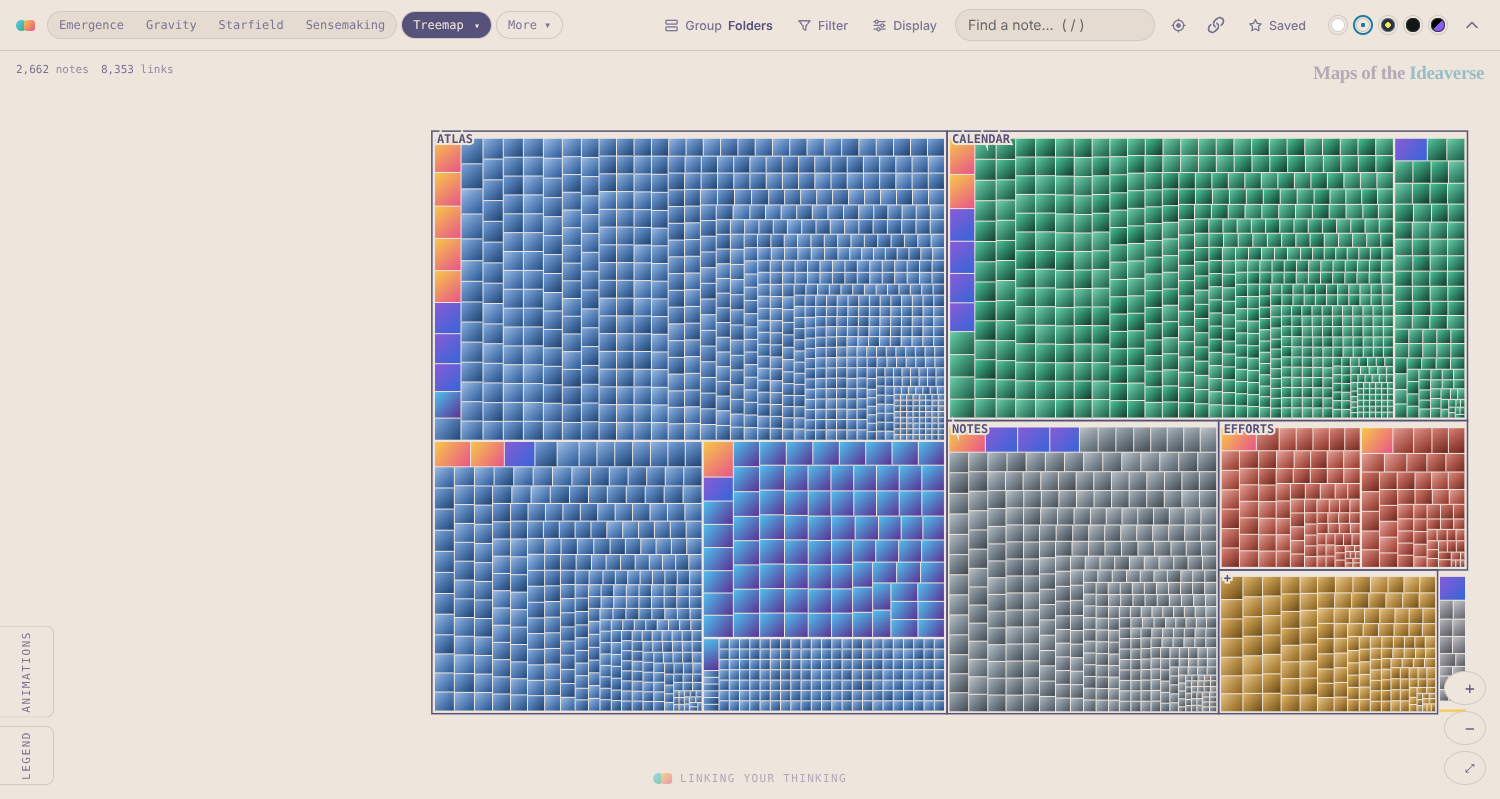
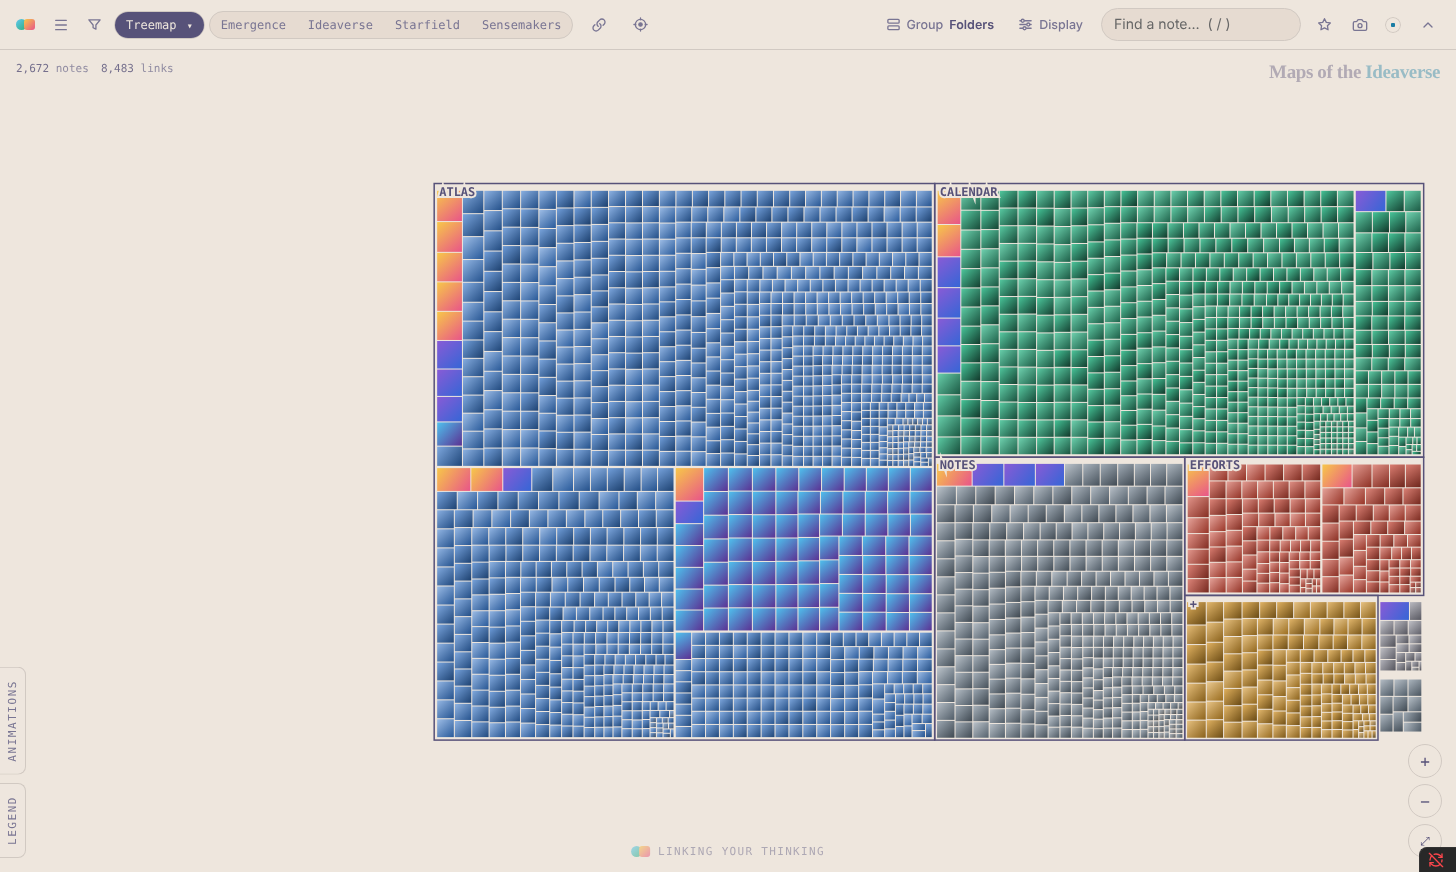
Dark retired (LYT Mode is the dark theme); Match Obsidian circle white and purple; Filter headers fold from anywhere; toolbar no longer flickers at some widths; README pictures retaken
Claude-Session: https://claude.ai/code/session_01QcxmUUuEka7RWjNHxnTd7Y

diff --git a/src/mapApp.js b/src/mapApp.js
@@ -4117,10 +4117,8 @@ function renderFocusBar(){
 }
 // the focus bar sits inline in the top row when it fits there; otherwise on its own line, so search and theme never move
 function fitFocus(){
-  const h = root.querySelector("header"), fb = $("#focusbar"); h.classList.remove("fbline");
-  if (fb.hidden || isPhone()) return;
-  const top = root.querySelector(".brand").offsetTop + 30;
-  if (fb.offsetTop > top || $(".search").offsetTop > top || $("#themeseg").offsetTop > top) h.classList.add("fbline");
+  // the focus bar floats on the map now (not in the toolbar), so the toolbar never re-flows around it; measuring it here made the toolbar bounce between one row and two (Oct 26)
+  const h = root.querySelector("header"); h.classList.remove("fbline");
 }
 on(win, "resize", () => fitFocus());
 
@@ -4295,13 +4293,15 @@ function legend(){
   if (domeOn()) $("#legend").createDiv({ text: view === "emergence" ? "Planetarium: you stand at the center. Level 5 is the North Pole, Level 1 the South Pole; " + (mode === "ace" ? "your folders" : "time") + " runs around you. Drag to look around, scroll to zoom, ⤢ to face forward." : view === "gravity" ? "Dome: you stand at the center. Home and the hubs are overhead; the levels drop toward the horizon. Drag to look around, scroll to zoom, ⤢ to face forward." : "Dome: you stand at the center. Time runs around you; folders run from the North Pole (+) to the South Pole (x), with the equator halfway through your notes. Drag to look around, scroll to zoom, ⤢ to face forward.", attr: { style: "margin-top:4px;opacity:.85;max-width:300px;white-space:normal" } });
 }
 $("#legend").addEventListener("click", () => setLegend(false));   // a click anywhere on the legend tucks it away
-const autoTheme = () => doc.body.classList.contains("theme-dark") ? "dark" : "paper";   // until a theme is picked, follow Obsidian's
-function setTheme(t, keep){ root.setAttribute("data-theme", t); if (keep) save("iv-theme", t); tip.setAttribute("data-theme", t);
+// Dark was retired (Oct 25–26): LYT Mode is the dark theme, so a dark Obsidian gets LYT Mode until a theme is picked
+{ const db_ = root.querySelector('#themeseg button[data-th="dark"]'); if (db_) db_.remove(); }
+const autoTheme = () => doc.body.classList.contains("theme-dark") ? "lyt" : "paper";   // until a theme is picked, follow Obsidian's
+function setTheme(t, keep){ if (t === "dark") t = "lyt"; root.setAttribute("data-theme", t); if (keep) save("iv-theme", t); tip.setAttribute("data-theme", t);
   root.querySelectorAll("#themeseg button").forEach(b => b.setAttribute("aria-pressed", String(b.dataset.th === t))); readCss(); legend(); draw(); }
 root.querySelectorAll("#themeseg button").forEach(b => b.onclick = () => setTheme(b.dataset.th, true));
 setLegend(legendOpen);
 updateCounts();
-{ const t = pref("iv-theme", null); if (t === "sepia") save("iv-theme", "softpaper"); if (t === "cybertron") save("iv-theme", "lyt"); }   // Sepia became Soft Paper (0.1.2); Cybertron was retired for LYT Mode (0.1.49)   // Sepia became Soft Paper (0.1.2)
+{ const t = pref("iv-theme", null); if (t === "sepia") save("iv-theme", "softpaper"); if (t === "cybertron" || t === "dark") save("iv-theme", "lyt"); }   // Dark was retired for LYT Mode (0.7.2)   // Sepia became Soft Paper (0.1.2); Cybertron was retired for LYT Mode (0.1.49)   // Sepia became Soft Paper (0.1.2)
 setTheme(pref("iv-theme", autoTheme()));
 
 
@@ -4882,7 +4882,9 @@ let twOn = pref("iv-twinkle", true) !== false, twWake = () => {};
   for (const fc of fcols.querySelectorAll(":scope > .fcol")) { const pt = fc.querySelector(".fhd > .pt"); if (!pt) continue; const key = "iv-fshut-" + pt.textContent.trim().toLowerCase();
     pt.classList.add("fcolt"); pt.setAttribute("role", "button"); pt.tabIndex = 0; const set = shut => { fc.classList.toggle("shut", shut); pt.setAttribute("aria-expanded", String(!shut)); pt.title = shut ? "Show this list" : "Hide this list"; };
     set(pref(key, false) === true); const flip = e => { e.stopPropagation(); const shut = !fc.classList.contains("shut"); set(shut); save(key, shut); };
-    pt.onclick = flip; pt.onkeydown = e => { if (e.key === "Enter" || e.key === " ") { e.preventDefault(); flip(e); } }; }
+    pt.onkeydown = e => { if (e.key === "Enter" || e.key === " ") { e.preventDefault(); flip(e); } };
+    // the whole header row folds it (its own buttons, like Clear, still do their own thing)
+    const hd_ = fc.querySelector(".fhd"); hd_.classList.add("fhdt"); hd_.addEventListener("click", e => { if (e.target.closest("button, input, select, label")) return; flip(e); }); }
   $("#foldms").hidden = true; $("#collms").hidden = true; $("#foldms").classList.add("gone"); $("#collms").classList.add("gone"); $("#effbtn").setText("Light up areas and projects");
   opener(FI, () => { renderFoldList(); renderCollList(true); syncColl(); });
   // Display: links, theme, how scoring works
@@ -5007,7 +5009,7 @@ let twOn = pref("iv-twinkle", true) !== false, twWake = () => {};
   // Theme: one orb in the toolbar, the theme you're on; it opens the list of themes, each with its name
   const thSlot = right.createDiv({ cls: "thslot" }); thSlot.hidden = true;
   { const TH = popBtn("theme", "Theme", "star"); TH.b.empty(); TH.b.classList.add("tbi", "thorb"); TH.b.setAttribute("aria-label", "Theme"); TH.b.createEl("i"); TH.p.classList.add("thpop"); TH.p.createDiv({ cls: "pt", text: "Theme" });
-    const seg = $("#themeseg"); TH.p.appendChild(seg); const THN = { paper: "Play", softpaper: "Soft Paper", lyt: "LYT Mode", dark: "Dark", obsidian: "Match Obsidian" };
+    const seg = $("#themeseg"); TH.p.appendChild(seg); const THN = { paper: "Play", softpaper: "Soft Paper", lyt: "LYT Mode", obsidian: "Match Obsidian" };
     for (const b of seg.querySelectorAll("button")) if (!b.querySelector(".thn")) b.createSpan({ cls: "thn", text: THN[b.dataset.th] || b.dataset.th });
     const sync = () => { const on = seg.querySelector('button[aria-pressed="true"]'); TH.b.dataset.th = on ? on.dataset.th : ""; const t = "Theme: " + (on ? THN[on.dataset.th] || on.dataset.th : ""); TH.b.setAttribute("aria-label", t); };
     sync(); new MutationObserver(sync).observe(seg, { attributes: true, subtree: true, attributeFilter: ["aria-pressed"] });
@@ -5032,7 +5034,8 @@ let twOn = pref("iv-twinkle", true) !== false, twWake = () => {};
     for (const b of MAIN) { const c = $("#vmorepop").createEl("button", { cls: "chip", text: b.textContent.replace(/\s*▾\s*$/, ""), attr: { type: "button" } }); if (tabV(view) === b.dataset.v) c.classList.add("on");
       c.classList.add("vfoldb"); vfold.before(c);
       c.onclick = e => { e.stopPropagation(); closePops(); driftStop(); if (tabV(view) !== b.dataset.v) setView(b.dataset.v); syncTB(); }; } };
-  let fitRaf = 0; const fitSoon = () => { if (fitRaf) return; fitRaf = RAF(() => { fitRaf = 0; const was = [...FOLD_T].join(); fitTabs(); if ([...FOLD_T].join() !== was) syncTB(); }); };
+  // refit only when the toolbar's width or the map changes: refitting on every redraw let a borderline width flip back and forth
+  let fitRaf = 0, fitKey = ""; const fitSoon = () => { const k_ = root.querySelector("header").clientWidth + "|" + view + "|" + (sel >= 0 ? 1 : 0); if (k_ === fitKey || fitRaf) return; fitKey = k_; fitRaf = RAF(() => { fitRaf = 0; const was = [...FOLD_T].join(); fitTabs(); if ([...FOLD_T].join() !== was) syncTB(); }); };
   { const ro_ = new ResizeObserver(() => { if (!dead) fitSoon(); }); ro_.observe(root.querySelector("header")); }
   syncTB = () => { syncDrift(); fitSoon();
     const core = CORE.has(view) && !FOLD_T.has(tabV(view)); vcur.hidden = core; vcurSeg.hidden = core; vcur.setAttribute("aria-pressed", String(!core)); vcur.textContent = VN() + " "; vcur.createSpan({ cls: "vcar", text: "▾" });

diff --git a/test/scenarios/readme-shots2.js b/test/scenarios/readme-shots2.js
@@ -2,11 +2,14 @@
 const path = require('path');
 module.exports = async ({ page, sleep }) => {
   const errs = []; page.on('pageerror', e => errs.push(e.message));
+  if (process.env.DESK) { await page.evaluate(() => app.emulateMobile(false)); await sleep(3000); }
   await page.evaluate(() => app.commands.executeCommandById('ideaverse-maps:open')); await page.waitForSelector('.ivm canvas', { timeout: 120000 }); await sleep(2500);
+  // the Animations dock tucked away, so it never covers a map
+  await page.evaluate(() => { const d = document.querySelector('.ivm #animdock'); if (d && !d.classList.contains('collapsed')) { const c = d.querySelector('button[aria-label="Tuck animations away"]'); if (c) c.click(); } }); await sleep(400);
   const ev = (f, a) => page.evaluate(f, a);
   const theme = async t => { await ev(t => document.querySelector(`.ivm #themeseg button[data-th="${t}"]`).click(), t); await sleep(700); };
   const core = async v => { await ev(v => { const b = document.querySelector(`.ivm #vseg button[data-v="${v}"]`); if (b.getAttribute('aria-pressed') !== 'true') b.click(); }, v); await sleep(2500); await close(); };
-  const more = async id => { await ev(id => { window.__ivReveal(id); document.querySelector('.ivm ' + id).click(); }, id); await sleep(3000); };
+  const more = async id => { await ev(id => { document.querySelector('.ivm #vmore').click(); document.querySelectorAll('.ivm #vmorepop details').forEach(d => d.open = true); document.querySelector('.ivm ' + id).click(); }, id); await sleep(3000); };
   const close = async () => { await page.mouse.click(1590, 990); await ev(() => document.body.click()); await sleep(400); };
   const find = async t => { const ok = await ev(t => { const f = app.vault.getMarkdownFiles().find(f => f.basename === t); if (!f) return false; app.workspace.getLeavesOfType('ideaverse-maps')[0].view.map.openNote(f.path); return true; }, t); console.log('find', t, ok); await sleep(2500); };
   const tuck = async () => { await ev(() => { const b = document.querySelector('.ivm aside #dcol'); b && b.click(); }); await sleep(900); };
@@ -19,24 +22,24 @@ module.exports = async ({ page, sleep }) => {
   await theme('lyt'); await core('emergence'); await find('Story cosmos garden'); await tuck(); await zfit(); await snap('emergence'); await clear();
   await theme('paper'); await core('gravity'); await ev(() => { const b = document.querySelector('.ivm #xseg button[data-x="ace"]'); b && b.click(); }); await sleep(1500); await find('Seed orbit idea'); await tuck(); await legend(false); await snap('gravity'); await legend(true); await clear();
   await ev(() => { const b = document.querySelector('.ivm #xseg button[data-x="time"]'); b && b.click(); }); await sleep(1000);
-  await theme('dark'); await core('stars'); await ev(() => { const r = document.querySelector('.ivm input[name="s3d"][value="3d"]'); r && r.click(); }); await sleep(3000); await close(); await legend(false); await wheel(4, .55, .5); await snap('starfield'); await legend(true);
+  await theme('lyt'); await core('stars'); await ev(() => { const r = document.querySelector('.ivm input[name="s3d"][value="3d"]'); r && r.click(); }); await sleep(3000); await close(); await legend(false); await wheel(4, .55, .5); await snap('starfield'); await legend(true);
   await ev(() => { const r = document.querySelector('.ivm input[name="s3d"][value="2d"]'); r && r.click(); }); await sleep(800);
   await theme('softpaper'); await core('sense'); await find('Spark river craft'); await snap('sensemaking'); await clear();
-  await theme('dark'); await more('#gocso'); await legend(false); await find('Garden cosmos river tide'); await tuck(); await snap('corona'); await clear(); await legend(true);
+  await theme('lyt'); await more('#gocso'); await legend(false); await find('Garden cosmos river tide'); await tuck(); await snap('corona'); await clear(); await legend(true);
   await theme('lyt'); await more('#gochord'); await legend(false); await snap('chord'); await legend(true);
   await theme('softpaper'); await more('#gotreemap'); await legend(false); await snap('treemap'); await legend(true);
   await theme('paper'); await more('#goshelf'); await legend(false); await wheel(3, .3, .45); await snap('bookshelf'); await legend(true);
-  await theme('dark'); await more('#gograph'); await sleep(12000); await legend(false); await find('Garden cosmos river tide'); await tuck(); await wheel(2, .5, .5); await snap('graph'); await clear(); await legend(true);
+  await theme('lyt'); await more('#gograph'); await sleep(12000); await legend(false); await find('Garden cosmos river tide'); await tuck(); await wheel(2, .5, .5); await snap('graph'); await clear(); await legend(true);
   // Posters on the film set
-  await theme('dark'); await more('#goposters');
+  await theme('lyt'); await more('#goposters');
   await ev(() => { const v = app.workspace.getLeavesOfType('ideaverse-maps')[0].view; v.map.setScope(app.vault.getMarkdownFiles().filter(f => f.path.startsWith('Atlas/Films/') && f.basename !== 'Films').map(f => f.path)); }); await sleep(2500);
-  const pick = async (id, v) => { await ev(([id, v]) => { window.__ivReveal(id); const s = document.querySelector('.ivm ' + id); s.value = v; s.dispatchEvent(new Event('change')); }, [id, v]); await sleep(1500); };
-  const mode = async m => { await ev(m => { window.__ivReveal('#pmode'); document.querySelector(`.ivm #pmode [data-pm="${m}"]`).click(); }, m); await sleep(1800); };
+  const pick = async (id, v) => { await ev(([id, v]) => { const s = document.querySelector('.ivm ' + id); s.value = v; s.dispatchEvent(new Event('change')); }, [id, v]); await sleep(1500); };
+  const mode = async m => { await ev(m => { document.querySelector(`.ivm #pmode [data-pm="${m}"]`).click(); }, m); await sleep(1800); };
   await mode('rows'); await pick('#pacross', 'year'); await pick('#planes', 'genre'); await pick('#psize', 'rank'); await close(); await legend(false); await sleep(3000); await wheel(3, .55, .45); await sleep(3000); await snap('posters');
   await zfit(); await mode('scatter'); await pick('#pacross', 'imdbRating'); await pick('#pheight', 'rank'); await close(); await sleep(4000); await snap('tastegap');
   await mode('mosaic'); await close(); await sleep(5000); await snap('mosaic');
   await ev(() => app.workspace.getLeavesOfType('ideaverse-maps')[0].view.map.setScope(null)); await sleep(1500); await legend(true);
   // Focus mode on Emergence
-  await theme('dark'); await core('emergence'); await ev(() => document.querySelector('.ivm #focusmode').click()); await find('Wonder ember root'); await tuck(); await sleep(800); await snap('focus');
+  await theme('lyt'); await core('emergence'); await ev(() => document.querySelector('.ivm #focusmode').click()); await find('Wonder ember root'); await tuck(); await sleep(800); await snap('focus');
   console.log('errors:', errs.length ? errs.slice(0, 3).join(' | ') : 'none');
 };

diff --git a/styles.css b/styles.css
@@ -112,7 +112,7 @@
 .ivm .thorb[data-th="softpaper"] i,.ivm #themeseg button[data-th="softpaper"] i{background:radial-gradient(circle at 50% 50%,#1a7da4 0 2px,transparent 2.5px),#eee6dd;box-shadow:inset 0 0 0 1px #cac1b9}
 .ivm .thorb[data-th="dark"] i,.ivm #themeseg button[data-th="dark"] i{background:#111614;box-shadow:inset 0 0 0 1px #2a3530}
 .ivm .thorb[data-th="lyt"] i,.ivm #themeseg button[data-th="lyt"] i{background:radial-gradient(circle at 50% 50%,hsl(58,86%,66%) 0 2.5px,transparent 3px),hsl(225,12%,20%);box-shadow:inset 0 0 0 1px hsl(196,27%,41%)}
-.ivm .thorb[data-th="obsidian"] i,.ivm #themeseg button[data-th="obsidian"] i{background:linear-gradient(135deg,var(--background-primary) 0 50%,var(--interactive-accent) 50%);box-shadow:inset 0 0 0 1px var(--background-modifier-border)}
+.ivm .thorb[data-th="obsidian"] i,.ivm #themeseg button[data-th="obsidian"] i{background:linear-gradient(135deg,#ffffff 0 50%,var(--interactive-accent,#7c5cff) 50%);box-shadow:inset 0 0 0 1px #cfcfc8}
 .ivm #themeseg button[aria-pressed="true"]{background:none;border:2px solid var(--accent)}
 .ivm .glbl{font:500 10px var(--mono);letter-spacing:.14em;text-transform:uppercase;color:var(--muted);margin-right:-4px}
 .ivm .mspop .pt{font:500 10px var(--mono);letter-spacing:.14em;text-transform:uppercase;color:var(--muted);padding:2px 6px 0}
@@ -996,8 +996,8 @@ body.is-phone .ivm .wm-name{display:none}
 .ivm[data-findmini="1"][data-findopen="1"] header.tb2 .search > input{display:block}
 .ivm[data-tbone="1"] header.tb2 .tbr > #viewms{order:0}
 .ivm .fcols .fhd .pt.fcolt{cursor:pointer;display:flex;align-items:center;gap:4px;user-select:none}
-.ivm .fcols .fhd .pt.fcolt::before{content:"▾";font-size:15px;line-height:1;width:12px;color:var(--muted)}
-.ivm .fcols .fcol.shut .fhd .pt.fcolt::before{content:"▸"}
+.ivm .fcols .fhd .pt.fcolt::after{content:"▾";font-size:15px;line-height:1;width:12px;color:var(--muted)}
+.ivm .fcols .fcol.shut .fhd .pt.fcolt::after{content:"▸"}
 .ivm .fcols .fhd .pt.fcolt:hover{color:var(--ink)}
 .ivm .fcols .fcol.shut > :not(.fhd){display:none}
 .ivm .fcols .fcol.shut .fhd .facts{display:none}
@@ -1013,3 +1013,4 @@ body.is-phone .ivm .wm-name{display:none}
 .ivm header.tb2 .thpop #themeseg .thn{flex:1}
 .ivm #themeseg .thn{display:none}
 .ivm header.tb2 .thpop #themeseg .thn{display:block}
+.ivm .fcols .fhd.fhdt{cursor:pointer;min-height:24px}

diff --git a/test/scenarios/tb-bounce.js b/test/scenarios/tb-bounce.js
@@ -1,0 +1,16 @@
+// The toolbar holds still at every width (Starfield, focus on): sample its layout for a second at each width
+module.exports = async ({ page, sleep }) => {
+  const errs = []; page.on('pageerror', e => errs.push(e.message));
+  if (process.env.DESK) { await page.evaluate(() => app.emulateMobile(false)); await sleep(3000); }
+  await page.evaluate(() => app.commands.executeCommandById('ideaverse-maps:open')); await page.waitForSelector('.ivm canvas', { timeout: 120000 }); await sleep(2500);
+  await page.evaluate(() => document.querySelector('.ivm #vseg button[data-v="stars"]').click()); await sleep(2000);
+  await page.evaluate(() => { const m = app.workspace.getLeavesOfType('ideaverse-maps')[0].view.map; m.openNote('Home.md'); }); await sleep(800);
+  await page.evaluate(() => document.querySelector('.ivm #focusmode').click()); await sleep(1500);
+  const split = async w => { await page.evaluate(w => { const el = document.querySelector('.workspace-split.mod-root'); el.style.width = w + 'px'; el.style.flex = 'none'; window.dispatchEvent(new Event('resize')); }, w); await sleep(700); };
+  let bad = [];
+  for (let w = 520; w <= 900; w += 8) { await split(w);
+    const n = await page.evaluate(async () => { const r = document.querySelector('.ivm'), h = document.querySelector('.ivm header'); const seen = new Set(); for (let k = 0; k < 20; k++) { seen.add([r.dataset.tbwrap, r.dataset.findmini, Math.round(h.getBoundingClientRect().height), [...document.querySelectorAll('.ivm #vseg > button[data-v]')].filter(b => !b.hidden).length].join(',')); await new Promise(res => setTimeout(res, 60)); } return [...seen]; });
+    if (n.length > 1) bad.push(w + ': ' + n.join(' / ')); }
+  console.log('unstable widths:', bad.length ? bad.join(' | ') : 'none');
+  console.log('errors:', errs.join(' | ') || 'none');
+};

diff --git a/README.md b/README.md
@@ -42,7 +42,7 @@ In Starfield, your biggest hubs become the cores of galaxies. Every note joins t
 Starfield's menu lets you switch to 3D, set how strongly the galaxies glow, add a rare twinkle, and make the galaxies turn slowly. During the Timelapse, each new note flares as it appears.
 
 ![Starfield in 3D: galaxies of notes around their hubs](docs/starfield.png)
-<sub>Starfield in 3D, Dark theme. Each galaxy is a hub plus the notes that reach it first.</sub>
+<sub>Starfield in 3D, LYT Mode. Each galaxy is a hub plus the notes that reach it first.</sub>
 
 ### Sensemakers
 
@@ -62,7 +62,7 @@ This is our take on Obsidian's graph view. Every note pushes the others away whi
 The map's menu has the same forces as Obsidian's graph settings. **Gravity** is the pull toward the middle, so lowering it lets a big graph spread out. **Repel** sets how hard notes push each other away, and **Link length** sets how far apart linked notes like to sit. The graph moves as you drag the sliders.
 
 ![Obsidian: a hub and its links](docs/graph.png)
-<sub>The Obsidian map in the Dark theme, zoomed in on a hub and its links.</sub>
+<sub>The Obsidian map in LYT Mode, zoomed in on a hub and its links.</sub>
 
 ### Chord, Corona and Tesla
 
@@ -72,7 +72,7 @@ Chord arranges every note around a ring, grouped into arcs by folder, by year, o
 <sub>Chord in LYT Mode. Each arc is a folder, and each band is the links between two folders.</sub>
 
 ![Corona: links arc over a globe](docs/corona.png)
-<sub>Corona in the Dark theme, with one hub's links arcing over the globe.</sub>
+<sub>Corona in LYT Mode, with one hub's links arcing over the globe.</sub>
 
 ### Treemap
 
@@ -123,7 +123,7 @@ Posters is for a smaller, focused set of notes, such as your movies, your books 
 Posters picks sensible starting choices from the properties your notes have in common. Inside a base, it follows the base's own Sort and Group settings.
 
 ![Posters: films by year, a row per genre](docs/posters.png)
-<sub>Posters in the Dark theme. Made-up films by release year, with a row for each genre, sized by rating.</sub>
+<sub>Posters in LYT Mode. Made-up films by release year, with a row for each genre, sized by rating.</sub>
 
 In **Scatter**, when both numbers measure the same kind of thing, like two ratings or two years, a line shows where they agree. The notes furthest from the line get a ring. Plot your own rating against the crowd's, and your hidden gems stand out above the line.
 
@@ -178,10 +178,10 @@ A note's score counts the links coming in, the links going out, links that go bo
 - **Inside a base** (Obsidian 1.10 or later), add a view and choose **Maps of the Ideaverse**. The map shows only the notes the base returns, such as one project, one book or everything tagged for a course, and it updates when you change the base's filters. Levels still come from your whole vault, so a hub stays a hub. Each base remembers its own map settings inside its `.base` file.
 - **Capture**, the camera button in the toolbar, saves a picture or a short clip of the map into your vault's attachments folder. A clip can record the map orbiting, or your whole Timelapse playing from start to finish. You can hide every note title first if you'd rather keep your notes private, and a small credit can go in the corner. You can keep the map's own shape, or frame it as a square for Instagram or a tall 9:16 for TikTok, Reels and Stories; while the menu is open, the map dims outside the frame so you can see what will be kept. Clips record at 30 frames a second, or 60 if you want the motion smoother. **Share my ideaverse** does it all in one click: ten seconds of your Ideaverse globe turning, in the shape you picked, with the credit on. Afterwards, a card lets you copy the picture, copy a ready-made caption, start a post on X, or open Instagram or TikTok with the caption already copied.
 - When notes change, the map offers to rescan. Only the notes that changed are read again.
-- There are five themes: Play, Soft Paper, Dark, LYT Mode, and one that matches your current Obsidian theme. The circle in the toolbar shows the one you are on; click it to switch.
+- There are four themes: Play, Soft Paper, LYT Mode, and one that matches your current Obsidian theme. The circle in the toolbar shows the one you are on; click it to switch.
 
 ![Focus mode: one note and everything it links to](docs/focus.png)
-<sub>Focus mode on Emergence in the Dark theme. One map is shown with the 36 notes it links to, and the links among them are drawn faintly.</sub>
+<sub>Focus mode on Emergence in LYT Mode. One map is shown with the 36 notes it links to, and the links among them are drawn faintly.</sub>
 
 ## Settings
 

diff --git a/docs/releases/0.7.2.md b/docs/releases/0.7.2.md
@@ -1,0 +1,7 @@
+## What's new in 0.7.2
+
+- **Dark is retired.** LYT Mode is the dark theme now. If you were on Dark, you move to LYT Mode, and a dark Obsidian gets LYT Mode until you pick a theme.
+- The **Match Obsidian** circle is white and purple, so it reads at a glance in the theme list.
+- In **Filter**, click anywhere on the Folders, Collections or Bases header to fold that list; the arrow now sits after the name.
+- Fixed: at certain widths the toolbar could flicker between one row and two, several times a second.
+- The README pictures were retaken with the current toolbar.
